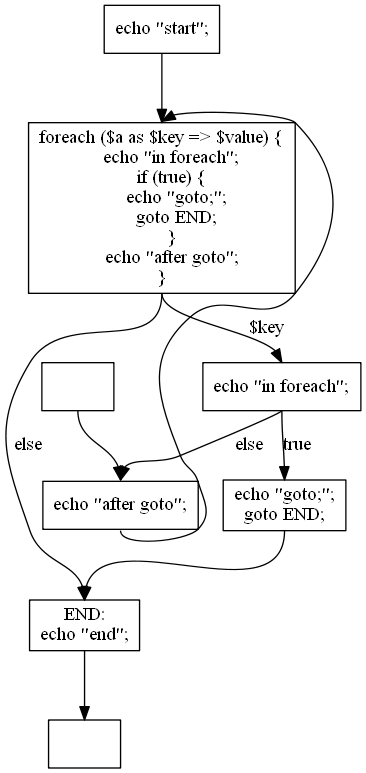
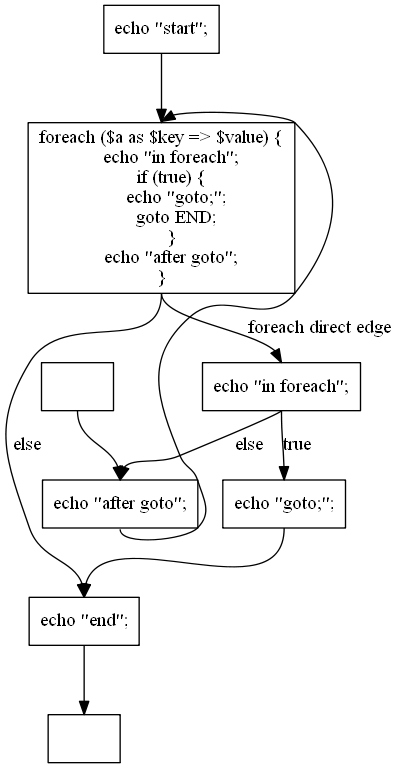
pridana specialna hrana v controlflow grafe pre foreach
git-svn-id: svn+ssh://aiya.ms.mff.cuni.cz/var/svn/weverca/trunk@525 67bba403-d36b-46c0-a350-761a85a4c57d

diff --git a/VSProjects/Realisation/Weverca.ControlFlowGraph/ControlFlowGraph.cs b/VSProjects/Realisation/Weverca.ControlFlowGraph/ControlFlowGraph.cs
@@ -373,81 +373,88 @@ namespace Weverca.ControlFlowGraph
             i = oldCounter;
             foreach (var node in nodes)
             {
-                foreach (var edge in node.OutgoingEdges)
+                foreach (var e in node.OutgoingEdges)
                 {
-                    int index = oldCounter + nodes.IndexOf(edge.To);
-                    string label = "";
-                    //v pripdae ze som tam umelo pridal podmienku v cfg a tato podmienka nebola v kode, je potrebne ju inym sposobom vypisat
-                    if (!edge.Condition.Position.IsValid)
+                    int index = oldCounter + nodes.IndexOf(e.To);
+                    if (e is ConditionalEdge)
                     {
-                        if (edge.Condition.GetType() == typeof(BoolLiteral))
+                        ConditionalEdge edge = e as ConditionalEdge;
+                        string label = "";
+                        //v pripdae ze som tam umelo pridal podmienku v cfg a tato podmienka nebola v kode, je potrebne ju inym sposobom vypisat
+                        if (!edge.Condition.Position.IsValid)
                         {
-                            label = edge.Condition.Value.ToString();
-                        }
-                        if (edge.Condition.GetType() == typeof(BinaryEx))
-                        {
-                            BinaryEx bin = (BinaryEx)edge.Condition;
-                            //dirty trick how to acces internal field
-                            var a = bin.GetType().GetField("operation", BindingFlags.NonPublic | BindingFlags.Instance);
-                            if ((Operations)a.GetValue(bin) == Operations.Equal)
+                            if (edge.Condition.GetType() == typeof(BoolLiteral))
                             {
-                                Expression l = (Expression)bin.GetType().GetField("leftExpr", BindingFlags.NonPublic | BindingFlags.Instance).GetValue(bin);
-                                Expression r = (Expression)bin.GetType().GetField("rightExpr", BindingFlags.NonPublic | BindingFlags.Instance).GetValue(bin);
-                                if (l.Position.IsValid == false)
+                                label = edge.Condition.Value.ToString();
+                            }
+                            if (edge.Condition.GetType() == typeof(BinaryEx))
+                            {
+                                BinaryEx bin = (BinaryEx)edge.Condition;
+                                //dirty trick how to acces internal field
+                                var a = bin.GetType().GetField("operation", BindingFlags.NonPublic | BindingFlags.Instance);
+                                if ((Operations)a.GetValue(bin) == Operations.Equal)
                                 {
-                                    if (l.GetType() == typeof(IntLiteral))
+                                    Expression l = (Expression)bin.GetType().GetField("leftExpr", BindingFlags.NonPublic | BindingFlags.Instance).GetValue(bin);
+                                    Expression r = (Expression)bin.GetType().GetField("rightExpr", BindingFlags.NonPublic | BindingFlags.Instance).GetValue(bin);
+                                    if (l.Position.IsValid == false)
                                     {
-                                        label += "" + ((IntLiteral)l).Value;
-                                        label += "=";
-                                        label += globalCode.SourceUnit.GetSourceCode(r.Position);
+                                        if (l.GetType() == typeof(IntLiteral))
+                                        {
+                                            label += "" + ((IntLiteral)l).Value;
+                                            label += "=";
+                                            label += globalCode.SourceUnit.GetSourceCode(r.Position);
+                                        }
+                                        else
+                                        {
+                                            label += "else";
+                                        }
                                     }
                                     else
                                     {
-                                        label += "else";
+                                        label += globalCode.SourceUnit.GetSourceCode(l.Position);
+                                        label += "=";
+                                        label += globalCode.SourceUnit.GetSourceCode(r.Position);
+
                                     }
                                 }
                                 else
                                 {
-                                    label += globalCode.SourceUnit.GetSourceCode(l.Position);
-                                    label += "=";
-                                    label += globalCode.SourceUnit.GetSourceCode(r.Position);
-
+                                    label += "else";
+                                    //label = globalCode.SourceUnit.GetSourceCode(edge.Condition.Position);
                                 }
                             }
-                            else
+                            if (edge.Condition.GetType() == typeof(DirectFcnCall))
                             {
-                                label += "else";
-                                //label = globalCode.SourceUnit.GetSourceCode(edge.Condition.Position);
+                                DirectFcnCall functionCall = (DirectFcnCall)edge.Condition;
+
+                                label += functionCall.QualifiedName + "(";
+                                foreach (var parameter in functionCall.CallSignature.Parameters)
+                                {
+                                    if (parameter.Expression.GetType() == typeof(StringLiteral))
+                                    {
+                                        StringLiteral literal = (StringLiteral)parameter.Expression;
+                                        label += "\"" + literal.Value + "\"" + ",";
+                                    }
+                                    else
+                                    {
+                                        label += globalCode.SourceUnit.GetSourceCode(parameter.Expression.Position) + ",";
+                                    }
+                                }
+                                label += ")";
                             }
                         }
-                        if (edge.Condition.GetType() == typeof(DirectFcnCall))
+                        else
                         {
-                            DirectFcnCall functionCall = (DirectFcnCall)edge.Condition;
-
-                            label += functionCall.QualifiedName + "(";
-                            foreach (var parameter in functionCall.CallSignature.Parameters)
-                            {
-                                if (parameter.Expression.GetType() == typeof(StringLiteral))
-                                {
-                                    StringLiteral literal = (StringLiteral)parameter.Expression;
-                                    label += "\"" + literal.Value + "\"" + ",";
-                                }
-                                else
-                                {
-                                    label += globalCode.SourceUnit.GetSourceCode(parameter.Expression.Position) + ",";
-                                }
-                            }
-                            label += ")";
+                            label = globalCode.SourceUnit.GetSourceCode(edge.Condition.Position);
                         }
+                        label = label.Replace("\"", "\\\"");
+                        result += "node" + i + " -> node" + index + "[headport=n, tailport=s,label=\"" + label + "\"]" + Environment.NewLine;
                     }
-                    else
+                    else 
                     {
-                        label = globalCode.SourceUnit.GetSourceCode(edge.Condition.Position);
+                        result += "node" + i + " -> node" + index + "[headport=n, tailport=s,label=\"foreach direct edge\"]" + Environment.NewLine;
                     }
-                    label = label.Replace("\"", "\\\"");
-                    result += "node" + i + " -> node" + index + "[headport=n, tailport=s,label=\"" + label + "\"]" + Environment.NewLine;
                 }
-
                 if (node.DefaultBranch != null)
                 {
                     string elseString = string.Empty;

diff --git a/VSProjects/Realisation/Weverca.AnalysisFramework/PointsBlock.cs b/VSProjects/Realisation/Weverca.AnalysisFramework/PointsBlock.cs
@@ -40,7 +40,7 @@ namespace Weverca.AnalysisFramework
         /// <summary>
         /// Outgoing conditional edges (their points will be connected as childs via assume blocks)
         /// </summary>
-        internal readonly IEnumerable<ConditionalEdge> ConditionalEdges;
+        internal readonly IEnumerable<IBasicBlockEdge> ConditionalEdges;
 
         /// <summary>
         /// Outgoing block used as default branch for conditional edges
@@ -65,7 +65,7 @@ namespace Weverca.AnalysisFramework
         /// <param name="outgoingBlocks">Outgoing basic blocks (their points will be connected as current block flow children)</param>
         /// <param name="conditionalEdges">Outgoing conditional edges (their points will be connected as childs via assume blocks)</param>
         /// <param name="defaultBlock">Outgoing block used as default branch for conditional edges</param>
-        private PointsBlock(IEnumerable<BasicBlock> outgoingBlocks, IEnumerable<ConditionalEdge> conditionalEdges, BasicBlock defaultBlock)
+        private PointsBlock(IEnumerable<BasicBlock> outgoingBlocks, IEnumerable<IBasicBlockEdge> conditionalEdges, BasicBlock defaultBlock)
         {
             OutgoingBlocks = outgoingBlocks;
             ConditionalEdges = conditionalEdges;
@@ -98,6 +98,7 @@ namespace Weverca.AnalysisFramework
         internal static PointsBlock ForBlock(IEnumerable<ProgramPointBase> statementPoints, BasicBlock block, bool needsContraction)
         {
             var defaultBlock = block.DefaultBranch == null ? null : block.DefaultBranch.To;
+
             var pointsBlock = new PointsBlock(new BasicBlock[0], block.OutgoingEdges, defaultBlock);
 
             pointsBlock._containedPoints.AddRange(statementPoints);

diff --git a/VSProjects/Realisation/Weverca.ControlFlowGraph/BasicBlockEdge.cs b/VSProjects/Realisation/Weverca.ControlFlowGraph/BasicBlockEdge.cs
@@ -90,6 +90,50 @@ namespace Weverca.ControlFlowGraph
         }
     }
 
+    public class ForEachSpecialEdge : IBasicBlockEdge
+    {
+        /// <summary>
+        /// Gets or sets source basic block.
+        /// </summary>
+        public BasicBlock From { set; get; }
+
+        /// <summary>
+        /// Gets or sets target basic block.
+        /// </summary>
+        public BasicBlock To { set; get; }
+
+        /// <summary>
+        /// Creates new edge between specified basic blocks and adds it into the basic block incoming and outgoing lists.
+        /// </summary>
+        /// <param name="From">Source basic block.</param>
+        /// <param name="To">Target basic block.</param>
+        /// <param name="Condition">Condition for this edge.</param>
+        /// <returns>New edge</returns>
+        public static ForEachSpecialEdge MakeNewAndConnect(BasicBlock From, BasicBlock To)
+        {
+            var edge = new ForEachSpecialEdge(From, To);
+            From.AddOutgoingEdge(edge);
+            To.AddIncommingEdge(edge);
+            return edge;
+        }
+
+        public ForEachSpecialEdge(BasicBlock From, BasicBlock To)
+        {
+            this.From = From;
+            this.To = To;
+        }
+
+        /// <summary>
+        /// Sets new target block and adds edge into its incoming list
+        /// </summary>
+        /// <param name="newDestination">New target block</param>
+        public void ChangeDestination(BasicBlock newDestination)
+        {
+            To = newDestination;
+            newDestination.IncommingEdges.Add(this);
+        }
+    }
+
     /// <summary>
     /// Represents direct basic block connection or the else branch connection
     /// </summary>

diff --git a/VSProjects/Realisation/Weverca.AnalysisFramework/Deprecated/ProgramPointGraph.cs b/VSProjects/Realisation/Weverca.AnalysisFramework/Deprecated/ProgramPointGraph.cs
@@ -58,17 +58,24 @@ namespace Weverca.AnalysisFramework
                 current = child;
             }
 
-            
+
             foreach (var edge in block.OutgoingEdges)
             {
-                var condition = fromCondition(edge.Condition,block);
-                addChildren(condition, edge.To);
-                current.AddChild(condition);
+                if (edge is ConditionalEdge)
+                {
+                    var condition = fromCondition((edge as ConditionalEdge).Condition, block);
+                    addChildren(condition, edge.To);
+                    current.AddChild(condition);
+                }
+                else 
+                {
+                //foreach edge
+                }
             }
 
             if (block.DefaultBranch != null)
             {
-                var conditionExpressions = from edge in block.OutgoingEdges select edge.Condition;
+                var conditionExpressions = from edge in block.OutgoingEdges where edge is ConditionalEdge select (edge as ConditionalEdge).Condition;
 
                 if (conditionExpressions.Any())
                 {

diff --git a/VSProjects/Realisation/Weverca.ControlFlowGraph/BasicBlock.cs b/VSProjects/Realisation/Weverca.ControlFlowGraph/BasicBlock.cs
@@ -22,7 +22,7 @@ namespace Weverca.ControlFlowGraph
         /// <summary>
         /// The outgoing edges
         /// </summary>
-        public List<ConditionalEdge> OutgoingEdges;
+        public List<IBasicBlockEdge> OutgoingEdges;
 
         /// <summary>
         /// The incomming edges
@@ -45,7 +45,7 @@ namespace Weverca.ControlFlowGraph
         public BasicBlock()
         {
             Statements = new List<LangElement>();
-            OutgoingEdges = new List<ConditionalEdge>();
+            OutgoingEdges = new List<IBasicBlockEdge>();
             IncommingEdges = new List<IBasicBlockEdge>();
             DefaultBranch = null;
             EndIngTryBlocks = new List<TryBasicBlock>();
@@ -74,7 +74,7 @@ namespace Weverca.ControlFlowGraph
         /// Adds the outgoing edge.
         /// </summary>
         /// <param name="edge">The edge.</param>
-        public void AddOutgoingEdge(ConditionalEdge edge)
+        public void AddOutgoingEdge(IBasicBlockEdge edge)
         {
             OutgoingEdges.Add(edge);
         }

diff --git a/VSProjects/Realisation/Weverca.AnalysisFramework/ProgramPointGraph.cs b/VSProjects/Realisation/Weverca.AnalysisFramework/ProgramPointGraph.cs
@@ -254,7 +254,7 @@ namespace Weverca.AnalysisFramework
             //process all outgoing conditional edges
             foreach (var edge in parentBlock.ConditionalEdges)
             {
-                var expression = edge.Condition;
+                var expression = (edge as ConditionalEdge).Condition;
                 var conditionExpressionBlock = _context.CreateFromExpression(expression);
                 var expressionValue = conditionExpressionBlock.LastPoint as ValuePoint;
 

diff --git a/VSProjects/Realisation/Weverca.ControlFlowGraph/CFGVisitor.cs b/VSProjects/Realisation/Weverca.ControlFlowGraph/CFGVisitor.cs
@@ -478,7 +478,7 @@ namespace Weverca.ControlFlowGraph
             foreachHead.AddElement(x);
 
             //Conditional edge to the foreach body
-            ConditionalEdge.MakeNewAndConnect(foreachHead, foreachBody, x.ValueVariable.Variable);
+            ForEachSpecialEdge.MakeNewAndConnect(foreachHead, foreachBody);
 
             //Visits foreach body
             loopData.Push(new LoopData(foreachHead, foreachSink));
